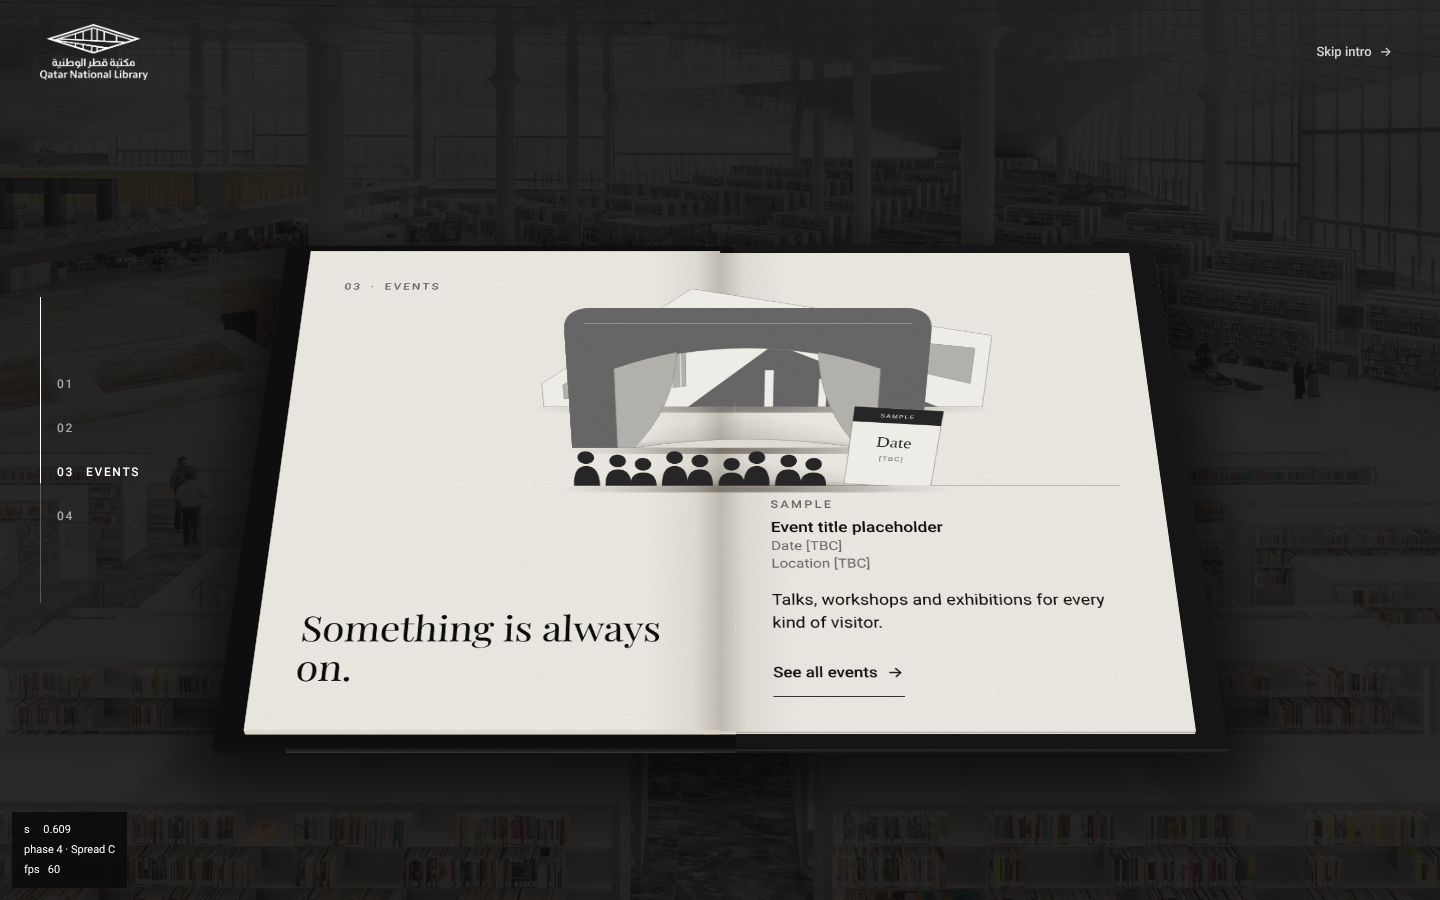
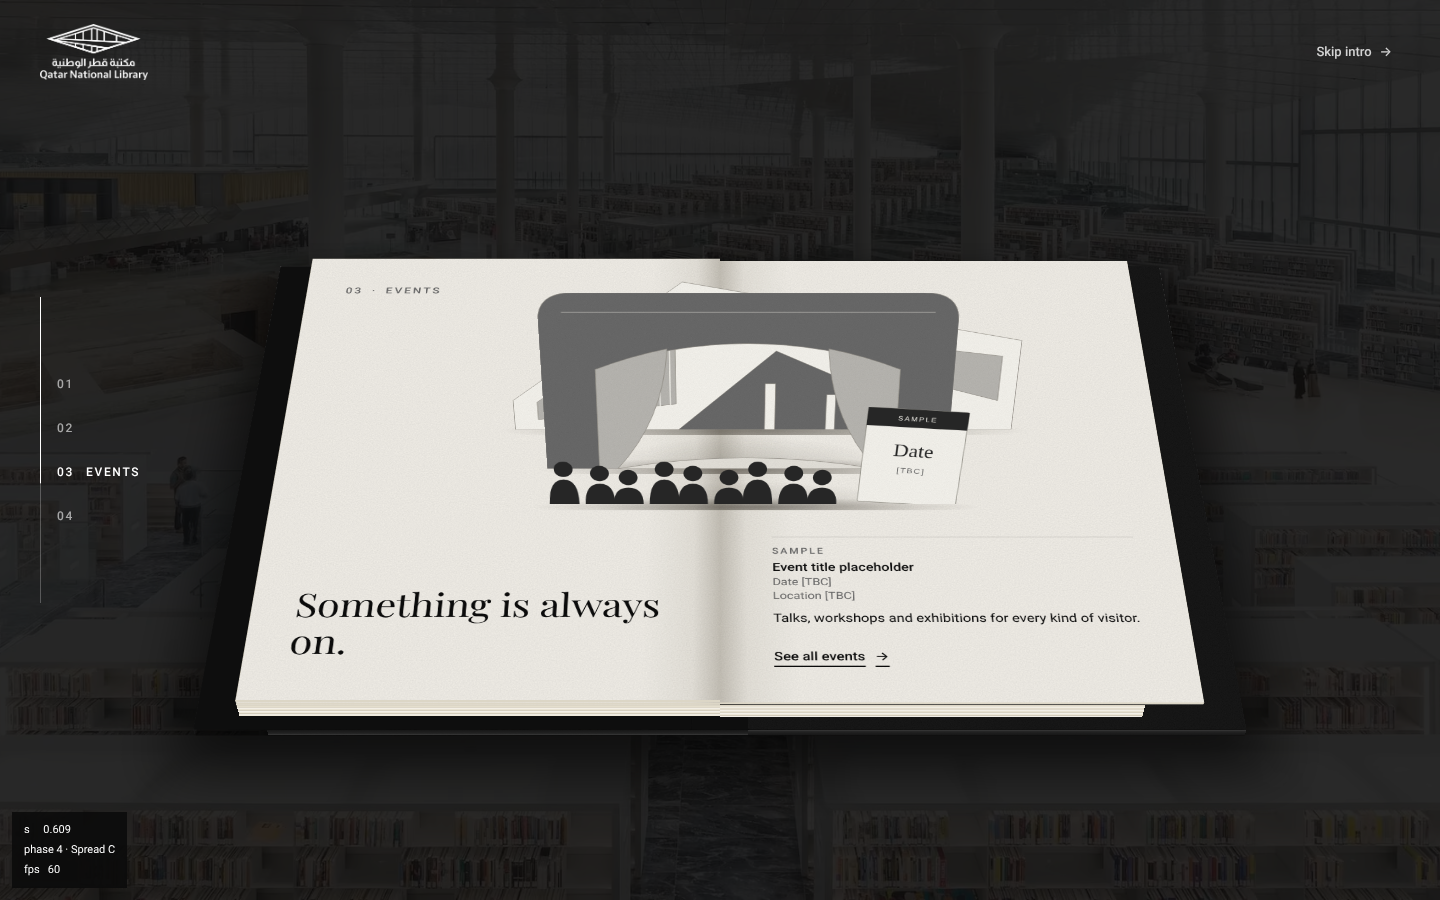
Thicker two-block book, smaller right-page type, larger pop-ups, artwork brief
Claude-Session: https://claude.ai/code/session_01NJhkhHsdtjkGgkng91Ef6F

Changed region(s): [[0.1562, 0.28, 0.8438, 0.84], [0.7812, 0.4978, 0.8125, 0.56], [0.1875, 0.4978, 0.2188, 0.56]]

diff --git a/src/components/Book/Book.tsx b/src/components/Book/Book.tsx
@@ -2,7 +2,7 @@ import { forwardRef, useImperativeHandle, useLayoutEffect, useRef } from 'react'
 import { spreads } from '../../data/spreads'
 import { backOut, clamp01, lerp } from '../../lib/easing'
 import { sign, useDir } from '../../lib/dir'
-import { BLOCK, BLOCK_OPEN, C, H, LEAF, LEAF_GAP, LEAVES, M, PH, PW, S, T, W, type BookPose } from './geometry'
+import { BLOCK_L, BLOCK_R, C, H, LEAF, LEAF_GAP, LEAVES, M, PH, PW, T, W, type BookPose } from './geometry'
 import { Page, PaperFace, SpreadLead, SpreadTrail } from './Page'
 import { PopUpLayer, type PopUpNodes } from './PopUpLayer'
 import { FaceContent, MirrorContext, Slab } from './Slab'
@@ -37,7 +37,7 @@ export const Book = forwardRef<BookHandle, { pose: BookPose; loadUpTo?: number }
   const floor = useRef<HTMLDivElement>(null)
   const leaves = useRef<(HTMLDivElement | null)[]>([])
   const shades = useRef<HTMLElement[][]>([])
-  const blockBox = useRef<HTMLDivElement>(null)
+  const leftBlock = useRef<HTMLDivElement>(null)
   const pops = useRef<PopUpNodes[][]>(spreads.map(() => []))
 
   const apply = (p: BookPose) => {
@@ -48,23 +48,21 @@ export const Book = forwardRef<BookHandle, { pose: BookPose; loadUpTo?: number }
     center.current!.style.transform = `translate3d(${lerp(-W / 2, T / 2, o)}px,${-H / 2}px,${(-T / 2) * (1 - o)}px)`
     spine.current!.style.transform = `rotateY(${-90 - 90 * o}deg)`
     cover.current!.style.transform = `rotateY(${90 * (1 - o)}deg)`
-    block.current!.style.transform = `translateX(${(-T / 2) * o}px)`
+    block.current!.style.transform = `translate3d(${(-T / 2) * o}px,0,-2px)`
     sheen.current!.style.transform = `translateX(${-30 - p.ry * 1.2}%)`
     table.current!.style.opacity = String(o)
     floor.current!.style.opacity = String(1 - o)
     floor.current!.style.transform = `translate(-50%, ${p.y + (H / 2) * p.scale + 36}px) scale(${p.scale})`
 
-    // the page block relaxes as the cover opens
-    const kz = lerp(1, BLOCK_OPEN / BLOCK, o)
-    const blockT = BLOCK * kz
-    blockBox.current!.style.transform = `scale3d(1,1,${kz})`
+    // the left block rides on the front board and slides to meet the gutter
+    leftBlock.current!.style.transform = `translate3d(${(-T / 2) * o}px,0,-2px)`
 
     for (let i = 0; i < LEAVES; i++) {
       const el = leaves.current[i]
       if (!el) continue
       const t = p.turns[i] ?? 0
-      const zRest = blockT + LEAF_GAP * (LEAVES - 1 - i) + LEAF_GAP / 2 // on the reading-side stack
-      const zTurned = LEAF_GAP * i + LEAF_GAP / 2 // on the turned stack
+      const zRest = BLOCK_R + LEAF_GAP * (LEAVES - 1 - i) + LEAF_GAP / 2 // on the reading-side stack
+      const zTurned = BLOCK_L + LEAF_GAP * i + LEAF_GAP / 2 // on the turned stack
       el.style.transform = `translateZ(${lerp(zRest, zTurned, t)}px) rotateY(${-180 * t}deg)`
       const shade = String(Math.sin(Math.PI * t) * 0.45) // darkest at 90°
       const nodes = (shades.current[i] ??= Array.from(el.querySelectorAll<HTMLElement>('[data-shade]')))
@@ -77,14 +75,15 @@ export const Book = forwardRef<BookHandle, { pose: BookPose; loadUpTo?: number }
   const applyPops = (p: BookPose) => {
     for (let i = 0; i < pops.current.length; i++) {
       const u = p.pops[i] ?? 0
-      // fold line height: just above the higher of this spread's two page surfaces
-      const zLeft = LEAF_GAP * (i + 0.5) + LEAF / 2
-      const zRight = i < LEAVES - 1 ? BLOCK_OPEN + LEAF_GAP * (LEAVES - 1.5 - i) + LEAF / 2 : BLOCK_OPEN
-      const z = Math.max(zLeft, zRight) + 0.6
+      // page surface heights either side of the gutter for this spread
+      const zLeft = BLOCK_L + LEAF_GAP * (i + 0.5) + LEAF / 2
+      const zRight = i < LEAVES - 1 ? BLOCK_R + LEAF_GAP * (LEAVES - 1.5 - i) + LEAF / 2 : BLOCK_R
       const group = pops.current[i]
       for (let j = 0; j < group.length; j++) {
         const n = group[j]
         if (!n) continue
+        // a layer wholly on one page stands on that page; one that bridges the gutter stands on the higher side
+        const z = (n.side < 0 ? zLeft : n.side > 0 ? zRight : Math.max(zLeft, zRight)) + 0.6
         const x = clamp01(u * (1 + 0.22 * (group.length - 1)) - 0.22 * j)
         n.layer.style.transform = `translateZ(${z + j * 0.4}px) rotateX(${-n.stand * backOut(x)}deg)`
         n.layer.style.opacity = String(Math.min(1, x * 7))
@@ -97,8 +96,6 @@ export const Book = forwardRef<BookHandle, { pose: BookPose; loadUpTo?: number }
   useImperativeHandle(ref, () => ({ apply }))
   useLayoutEffect(() => apply(pose), [pose, dir]) // eslint-disable-line react-hooks/exhaustive-deps
 
-  const pastedownW = (PW - T / 2) / S
-  const m = M / S
 
   return (
     <MirrorContext.Provider value={mirrored}>
@@ -147,10 +144,7 @@ export const Book = forwardRef<BookHandle, { pose: BookPose; loadUpTo?: number }
                       <div className="absolute inset-x-0 bottom-[10.2%] h-px bg-white/25" />
                     </div>
                   }
-                  back={
-                    /* hinge crease in the endpaper */
-                    <div className="absolute" style={{ left: 0, right: 0, top: m, bottom: m, background: 'linear-gradient(90deg, #f4f1ea, #d8d2c2 45%, #c9c2b0 55%, #f4f1ea)' }} />
-                  }
+                  back={<div />}
                 />
                 {/* front board, hinged on the far edge of the spine */}
                 <div ref={cover} className="absolute top-0" style={{ left: T, width: W, height: H, transformOrigin: 'left center' }}>
@@ -177,27 +171,31 @@ export const Book = forwardRef<BookHandle, { pose: BookPose; loadUpTo?: number }
                         />
                       </>
                     }
-                    back={
-                      /* pastedown endpaper with tone-on-tone logo */
-                      <div className="paper grain absolute" style={{ right: 0, top: m, bottom: m, width: pastedownW }}>
-                        <FaceContent>
+                    back={<div />}
+                  />
+                  {/* left page block: rides on the inside of the front board, endpaper on top */}
+                  <div ref={leftBlock} className="absolute left-0" style={{ top: M, width: PW, height: PH }}>
+                    <Slab
+                      w={PW} h={PH} t={BLOCK_L}
+                      style={{ transform: 'rotateY(180deg)' }}
+                      edgeX="pages-x" edgeY="pages-y" noFarEdge
+                      front={
+                        <PaperFace gutter="right">
                           <img
                             src="/img/qnl-logo-black.webp" alt="" width={480} height={250}
                             className="absolute left-1/2 top-1/2 w-[44%] -translate-x-1/2 -translate-y-1/2 opacity-[0.09]"
                           />
-                        </FaceContent>
-                        <div className="absolute inset-y-0 right-0 w-10" style={{ background: 'linear-gradient(to left, rgba(40,30,10,.2), transparent)' }} />
-                      </div>
-                    }
-                  />
+                        </PaperFace>
+                      }
+                    />
+                  </div>
                 </div>
               </div>
 
               {/* page block + turning pages; slides to centre the gutter */}
               <div ref={block} className="absolute left-0 top-0">
-                <div ref={blockBox} className="absolute left-0 top-0">
                 <Slab
-                  w={PW} h={PH} t={BLOCK}
+                  w={PW} h={PH} t={BLOCK_R}
                   style={{ top: M }}
                   edgeX="pages-x" edgeY="pages-y" noHingeEdge
                   front={
@@ -206,7 +204,6 @@ export const Book = forwardRef<BookHandle, { pose: BookPose; loadUpTo?: number }
                     </PaperFace>
                   }
                 />
-                </div>
                 {/* DOM order = paint order for coplanar cases: last page first */}
                 {Array.from({ length: LEAVES }, (_, n) => LEAVES - 1 - n).map((i) => (
                   <Page

diff --git a/src/data/spreads.ts b/src/data/spreads.ts
@@ -58,9 +58,9 @@ export const spreads: Spread[] = [
     body_ar: null,
     link: { href: '#children', label_en: "Explore children's books", label_ar: null },
     layers: [
-      { src: '/popups/spreadA-layer1.svg', base: 0.4, x: 0.08, w: 1.0, ratio: 540 / 880, stand: 86, mobile: true },
-      { src: '/popups/spreadA-layer2.svg', base: 0.5, x: 0.2, w: 0.86, ratio: 460 / 720, stand: 82 },
-      { src: '/popups/spreadA-layer3.svg', base: 0.6, x: -0.18, w: 0.72, ratio: 230 / 560, stand: 78, mobile: true },
+      { src: '/popups/spreadA-layer1.svg', base: 0.47, x: 0.08, w: 1.12, ratio: 540 / 880, stand: 86, mobile: true },
+      { src: '/popups/spreadA-layer2.svg', base: 0.57, x: 0.2, w: 0.96, ratio: 460 / 720, stand: 82 },
+      { src: '/popups/spreadA-layer3.svg', base: 0.67, x: -0.18, w: 0.81, ratio: 230 / 560, stand: 78, mobile: true },
     ],
     bgPaper: '#f4f1ea',
   },
@@ -83,9 +83,9 @@ export const spreads: Spread[] = [
       lines_ar: null,
     },
     layers: [
-      { src: '/popups/spreadB-layer1.svg', base: 0.38, x: 0.1, w: 1.0, ratio: 420 / 880, stand: 86, mobile: true },
-      { src: '/popups/spreadB-layer2.svg', base: 0.47, x: -0.12, w: 0.56, ratio: 300 / 440, stand: 76, mobile: true },
-      { src: '/popups/spreadB-layer3.svg', base: 0.54, x: 0.2, w: 0.38, ratio: 340 / 320, stand: 72 },
+      { src: '/popups/spreadB-layer1.svg', base: 0.45, x: 0.1, w: 1.12, ratio: 420 / 880, stand: 86, mobile: true },
+      { src: '/popups/spreadB-layer2.svg', base: 0.54, x: -0.12, w: 0.63, ratio: 300 / 440, stand: 76, mobile: true },
+      { src: '/popups/spreadB-layer3.svg', base: 0.61, x: 0.2, w: 0.43, ratio: 340 / 320, stand: 72 },
     ],
     bgPaper: '#f4f1ea',
   },
@@ -105,9 +105,9 @@ export const spreads: Spread[] = [
       lines_ar: null,
     },
     layers: [
-      { src: '/popups/spreadC-layer1.svg', base: 0.36, x: 0.1, w: 1.04, ratio: 400 / 900, stand: 86, mobile: true },
-      { src: '/popups/spreadC-layer2.svg', base: 0.45, x: 0.06, w: 0.8, ratio: 380 / 700, stand: 82, mobile: true },
-      { src: '/popups/spreadC-layer3.svg', base: 0.53, x: 0.08, w: 0.86, ratio: 200 / 700, stand: 76 },
+      { src: '/popups/spreadC-layer1.svg', base: 0.43, x: 0.1, w: 1.16, ratio: 400 / 900, stand: 86, mobile: true },
+      { src: '/popups/spreadC-layer2.svg', base: 0.52, x: 0.06, w: 0.90, ratio: 380 / 700, stand: 82, mobile: true },
+      { src: '/popups/spreadC-layer3.svg', base: 0.60, x: 0.08, w: 0.96, ratio: 200 / 700, stand: 76 },
     ],
     bgPaper: '#f4f1ea',
   },
@@ -122,9 +122,9 @@ export const spreads: Spread[] = [
     body_ar: null,
     link: { href: '#heritage', label_en: 'Explore the heritage collection', label_ar: null },
     layers: [
-      { src: '/popups/spreadD-layer1.svg', base: 0.4, x: 0.17, w: 0.9, ratio: 500 / 860, stand: 84, mobile: true },
-      { src: '/popups/spreadD-layer2.svg', base: 0.5, x: 0.24, w: 0.5, ratio: 480 / 440, stand: 74, mobile: true },
-      { src: '/popups/spreadD-layer3.svg', base: 0.58, x: -0.14, w: 0.66, ratio: 170 / 620, stand: 78 },
+      { src: '/popups/spreadD-layer1.svg', base: 0.47, x: 0.17, w: 1.01, ratio: 500 / 860, stand: 84, mobile: true },
+      { src: '/popups/spreadD-layer2.svg', base: 0.57, x: 0.24, w: 0.56, ratio: 480 / 440, stand: 74, mobile: true },
+      { src: '/popups/spreadD-layer3.svg', base: 0.65, x: -0.14, w: 0.74, ratio: 170 / 620, stand: 78 },
     ],
     bgPaper: '#f1ece0',
   },

diff --git a/src/components/Book/geometry.ts b/src/components/Book/geometry.ts
@@ -6,17 +6,22 @@
 export const S = 1.5
 export const W = 400 * S // cover width
 export const H = 540 * S // cover height
-export const T = 26 * S // spine width = closed thickness between the boards
 export const C = 7 * S // cover board thickness (hardback greyboard)
 export const M = 13 * S // the 'squares': how far the boards overhang the pages
 export const PW = W - M // page width
 export const PH = H - 2 * M // page height
-export const LEAF = 2 * S // visible thickness of a turning page
-export const LEAF_GAP = 2.5 * S // stacking distance between turning pages
+export const LEAF = 2.4 * S // visible thickness of a turning page (card stock)
+export const LEAF_GAP = 3 * S // stacking distance between turning pages
 export const LEAVES = 4 // turning pages (one per spread)
-export const BLOCK = T - LEAVES * LEAF_GAP // the page block under the turning pages
-/** The block relaxes as the book opens, so both sides of a spread sit at a similar height for the pop-ups. */
-export const BLOCK_OPEN = 3 * S
+/**
+ * The book opens into two page blocks, like a thick pop-up book: BLOCK_R stays
+ * on the back board, BLOCK_L swings over with the front board. The turning
+ * pages travel between them, so both sides of every spread sit at a similar
+ * height and both show a stack of page edges.
+ */
+export const BLOCK_R = 18 * S
+export const BLOCK_L = 15 * S
+export const T = BLOCK_R + BLOCK_L + LEAVES * LEAF_GAP // spine width = closed thickness between the boards
 
 /**
  * Everything that can change about the book. The scroll timeline produces one
@@ -48,7 +53,7 @@ export const POSE_CLOSED: Omit<BookPose, 'scale' | 'x' | 'y' | 'pops'> = {
   turns: [0, 0, 0, 0],
 }
 export const POSE_OPEN: Omit<BookPose, 'scale' | 'x' | 'y' | 'pops'> = {
-  rx: 36,
+  rx: 42,
   ry: 0,
   rz: 0,
   open: 1,

diff --git a/src/components/Book/Page.tsx b/src/components/Book/Page.tsx
@@ -67,24 +67,24 @@ export function SpreadLead({ spread }: { spread: Spread }) {
 export function SpreadTrail({ spread }: { spread: Spread }) {
   const dir = useDir()
   return (
-    <div className="flex h-full flex-col justify-end gap-4 pb-8 pt-9 pe-9 ps-11">
+    <div className="flex h-full flex-col justify-end gap-2 pb-6 pt-9 pe-9 ps-11">
       {spread.sample && (
-        <div className="border-t border-ink/25 pt-3">
-          <p className="label mb-1 text-g1" lang="en">Sample</p>
+        <div className="border-t border-ink/25 pt-2">
+          <p className="label mb-0.5 text-g1" style={{ fontSize: 9 }} lang="en">Sample</p>
           {spread.sample.lines_en.map((l, i) => (
-            <p key={i} className={i === 0 ? 'text-[15px] font-medium' : 'text-[13px] leading-snug text-g1'}>
+            <p key={i} className={i === 0 ? 'text-[12px] font-medium' : 'text-[10.5px] leading-snug text-g1'}>
               <Tx en={l} ar={spread.sample!.lines_ar?.[i] ?? null} />
             </p>
           ))}
         </div>
       )}
-      <p className="max-w-[26em] text-[15px] leading-[1.5]">
+      <p className="text-[12px] leading-[1.45]">
         <Tx en={spread.body_en} ar={spread.body_ar} />
       </p>
       <a
         href={spread.link.href}
         tabIndex={-1}
-        className="group inline-flex min-h-11 items-center gap-2 self-start border-b border-ink text-[14px] font-medium"
+        className="group inline-flex min-h-11 items-center gap-2 self-start text-[12px] font-medium underline decoration-1 underline-offset-[5px]"
       >
         <Tx en={spread.link.label_en} ar={spread.link.label_ar} />
         <span aria-hidden className="transition-transform duration-300 ease-(--ease-ui) group-hover:translate-x-1 rtl:group-hover:-translate-x-1">

diff --git a/src/components/Book/Slab.tsx b/src/components/Book/Slab.tsx
@@ -27,6 +27,8 @@ interface SlabProps {
   edgeY?: string
   /** omit the strip on the hinge side */
   noHingeEdge?: boolean
+  /** omit the strip on the far (x = w) side */
+  noFarEdge?: boolean
   style?: CSSProperties
 }
 
@@ -34,7 +36,7 @@ interface SlabProps {
  * A box with real thickness: front face at z = t, back face at z = 0 and four
  * edge strips between them. Covers, spine, page block and pages are all slabs.
  */
-export function Slab({ w, h, t, front, back, frontClass = '', backClass = '', edgeX, edgeY, noHingeEdge, style }: SlabProps) {
+export function Slab({ w, h, t, front, back, frontClass = '', backClass = '', edgeX, edgeY, noHingeEdge, noFarEdge, style }: SlabProps) {
   return (
     <div className="b3d absolute left-0 top-0" style={{ width: w, height: h, ...style }}>
       {back !== undefined && (
@@ -47,7 +49,7 @@ export function Slab({ w, h, t, front, back, frontClass = '', backClass = '', ed
           {!noHingeEdge && (
             <div className={`b-edge ${edgeX}`} style={{ left: 0, top: 0, width: t, height: h, transformOrigin: 'left', transform: 'rotateY(-90deg)' }} />
           )}
-          <div className={`b-edge ${edgeX}`} style={{ left: w, top: 0, width: t, height: h, transformOrigin: 'left', transform: 'rotateY(-90deg)' }} />
+          {!noFarEdge && <div className={`b-edge ${edgeX}`} style={{ left: w, top: 0, width: t, height: h, transformOrigin: 'left', transform: 'rotateY(-90deg)' }} />}
         </>
       )}
       {edgeY && (

diff --git a/src/components/Book/PopUpLayer.tsx b/src/components/Book/PopUpLayer.tsx
@@ -7,6 +7,8 @@ export interface PopUpNodes {
   layer: HTMLElement
   shadow: HTMLElement
   stand: number
+  /** −1 wholly on the left page, +1 wholly on the right, 0 bridges the gutter */
+  side: number
 }
 
 /**
@@ -24,7 +26,7 @@ export function PopUpLayer({ def, load, register }: { def: PopUpLayerDef; load: 
 
   let layer: HTMLElement | null = null
   let shadow: HTMLElement | null = null
-  const sync = () => register(layer && shadow ? { layer, shadow, stand: def.stand ?? 84 } : null)
+  const sync = () => register(layer && shadow ? { layer, shadow, stand: def.stand ?? 84, side: def.x + def.w / 2 <= 0 ? -1 : def.x - def.w / 2 >= 0 ? 1 : 0 } : null)
 
   return (
     <>

diff --git a/docs/artwork-brief.md b/docs/artwork-brief.md
@@ -1,0 +1,79 @@
+# Pop-up artwork brief (for image generation)
+
+Each spread needs **6 cut-out layers** (24 images in total), plus one optional flat page background per spread. Generate all six layers of a spread in the **same ChatGPT conversation** so the style stays consistent, and paste the style block first.
+
+## Rules for every layer
+
+- **Transparent background** PNG, about 2000 px on the long side.
+- **Flat, straight-on view.** No perspective, no camera angle. The website supplies the 3D.
+- **Straight bottom edge.** The artwork must run right down to the bottom of the image, because that edge is the fold line where the layer is glued to the page.
+- **One cut-out per image.** A single connected paper shape, like one die-cut piece of card.
+- A thin **off-white paper border** (about 6 px) around the silhouette, as on a real die-cut.
+- **No drop shadow, no floor, no text, no logos, no real people's faces.**
+- Save as `spreadA-layer1.png` … `spreadD-layer6.png`. Layer 1 is the back, layer 6 the front.
+
+## Style block (paste at the start of each conversation)
+
+> You are illustrating die-cut layers for a premium paper pop-up book for Qatar National Library. Style: layered cut-paper illustration with visible paper texture and soft hand-painted gouache colour, rich and saturated but refined, editorial rather than cartoonish. Clean shapes, confident silhouettes, small crafted details. Each image is ONE die-cut card piece seen perfectly flat and straight-on, with a thin off-white paper border around its outline, on a fully transparent background. The artwork must touch the bottom edge of the image along a straight horizontal line. No shadows, no ground plane, no text, no logos. Keep this exact style and palette for every image I ask for in this conversation.
+
+## Layer shapes (same for every spread)
+
+| Layer | Role | Shape |
+|---|---|---|
+| 1 | Backdrop, stands at the back | wide, 3:2 landscape |
+| 2 | Midground scene | wide, 3:2 landscape, lower than layer 1 |
+| 3 | Hero, centre stage | roughly square |
+| 4 | Left wing | 3:4 portrait |
+| 5 | Right wing | 3:4 portrait |
+| 6 | Foreground strip | long and low, 4:1 |
+| 7 (optional) | Flat page background printed on the paper | 3:2 landscape, NOT transparent, quiet in the lower third where the text sits |
+
+---
+
+## Spread A · Children's Library
+
+Palette: deep indigo night, warm yellow, coral, leaf green.
+
+1. **Backdrop.** A tall arched night sky in deep indigo with a large glowing crescent moon, scattered stars and a few soft clouds. Arched top, straight bottom edge.
+2. **Midground.** A row of rounded storybook hills with small houses, a winding path and tiny lit windows, in greens and warm yellows.
+3. **Hero.** A large leafy tree with a wide canopy, a child sitting against the trunk reading an open book, with a lantern beside them. Child shown from the side or back, simple and stylised.
+4. **Left wing.** A stack of oversized picture books with a friendly fox sitting on top, looking toward the right.
+5. **Right wing.** A hot-air balloon made of book pages rising above a small cloud, with a rope trailing down to the bottom edge.
+6. **Foreground strip.** Tall grass, wildflowers, toadstools and a few open books lying in the grass.
+7. **Page background (optional).** A soft meadow at dusk seen from above, plain and calm in the lower third.
+
+## Spread B · Research & Learning
+
+Palette: ink navy, teal, warm amber, off-white.
+
+1. **Backdrop.** A tall wall of library shelves filled with journals and bound volumes, with a rolling ladder, in navy and teal with amber highlights.
+2. **Midground.** A long reading desk with stacks of papers, an open laptop shown from behind, a desk lamp and a globe.
+3. **Hero.** A large magnifying glass standing upright on its handle, with diagrams, graphs and a constellation map visible inside the lens.
+4. **Left wing.** A tall stack of academic journals with paper bookmarks sticking out, and a coffee cup on top.
+5. **Right wing.** A molecular model and a microscope standing on a small pile of books.
+6. **Foreground strip.** Loose index cards, pencils, paper clips and sheets of notes scattered in a row.
+7. **Page background (optional).** A faint blueprint-style grid with light pencil diagrams, calm in the lower third.
+
+## Spread C · Events
+
+Palette: warm white, charcoal, gold, a red curtain accent.
+
+1. **Backdrop.** A modern white library building with a dramatic angular, lifted roof and a tall glass facade, against an evening sky. Architectural and geometric. (Based on the QNL building photos; we will check likeness.)
+2. **Midground.** A theatre stage with a proscenium arch, deep red curtains drawn to the sides and warm spotlights.
+3. **Hero.** A speaker's lectern with a microphone and, beside it, a cellist's chair with a cello resting against it. No people.
+4. **Left wing.** A cluster of paper lanterns and bunting flags hanging from a pole.
+5. **Right wing.** An easel holding a blank poster board, with a film projector on a stand beside it.
+6. **Foreground strip.** A row of audience members seen from behind as simple silhouettes in rows of seats.
+7. **Page background (optional).** A polished stone floor with soft pools of spotlight, calm in the lower third.
+
+## Spread D · Qatar & Gulf Heritage
+
+Palette: sepia, sand, aged gold, deep sea blue. Final artwork here should come from QNL's own collections; these are stand-ins.
+
+1. **Backdrop.** A large antique map of the Arabian Gulf with a coastline, compass rose, rhumb lines and a decorative border, on aged parchment. Invented, not a copy of a real map.
+2. **Midground.** A row of traditional wooden dhow boats with tall triangular sails on a calm sea.
+3. **Hero.** An open illuminated manuscript on a wooden book stand, with geometric gold ornament and rows of abstract script-like marks. No readable text.
+4. **Left wing.** A brass astrolabe and a rolled scroll tied with ribbon, on a small stack of leather-bound books.
+5. **Right wing.** A traditional wind tower and an arched doorway in sand-coloured stone, with a palm tree.
+6. **Foreground strip.** A row of old leather-bound books lying flat, with pearls, a brass ink pot and a reed pen.
+7. **Page background (optional).** Aged parchment with faint geometric star patterning, calm in the lower third.
